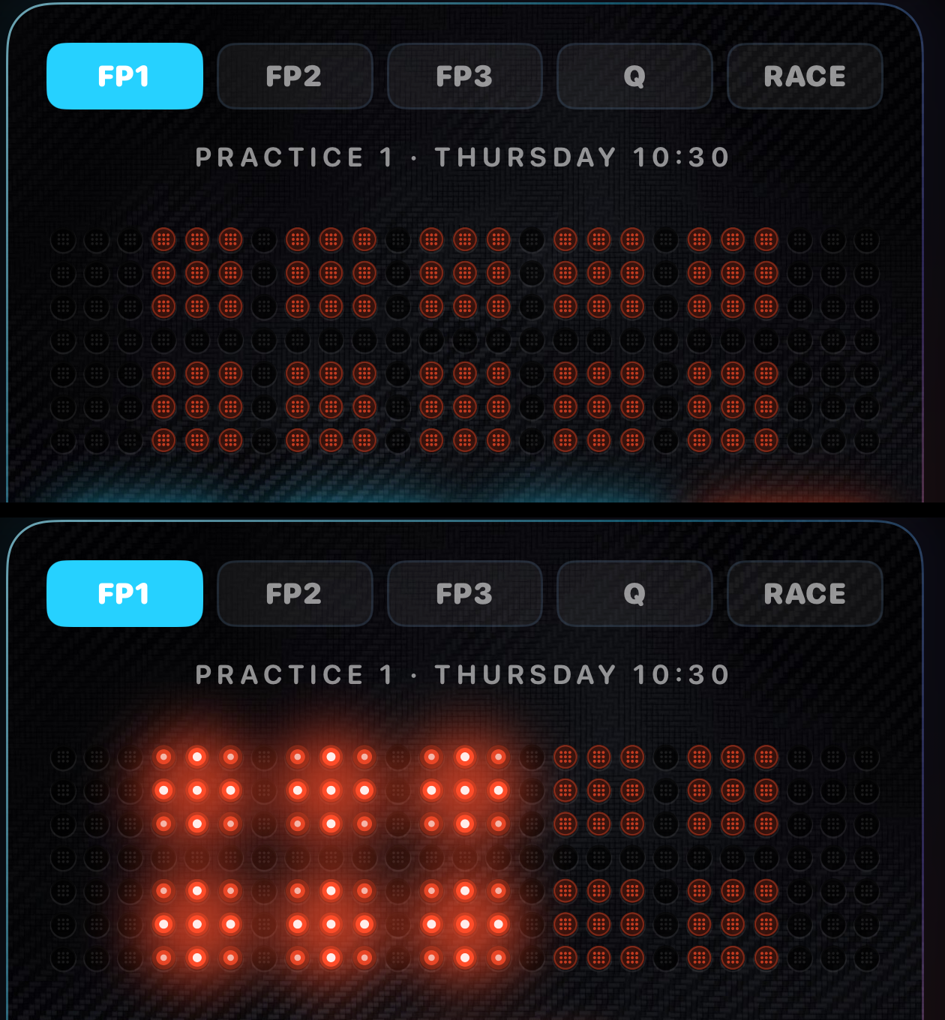
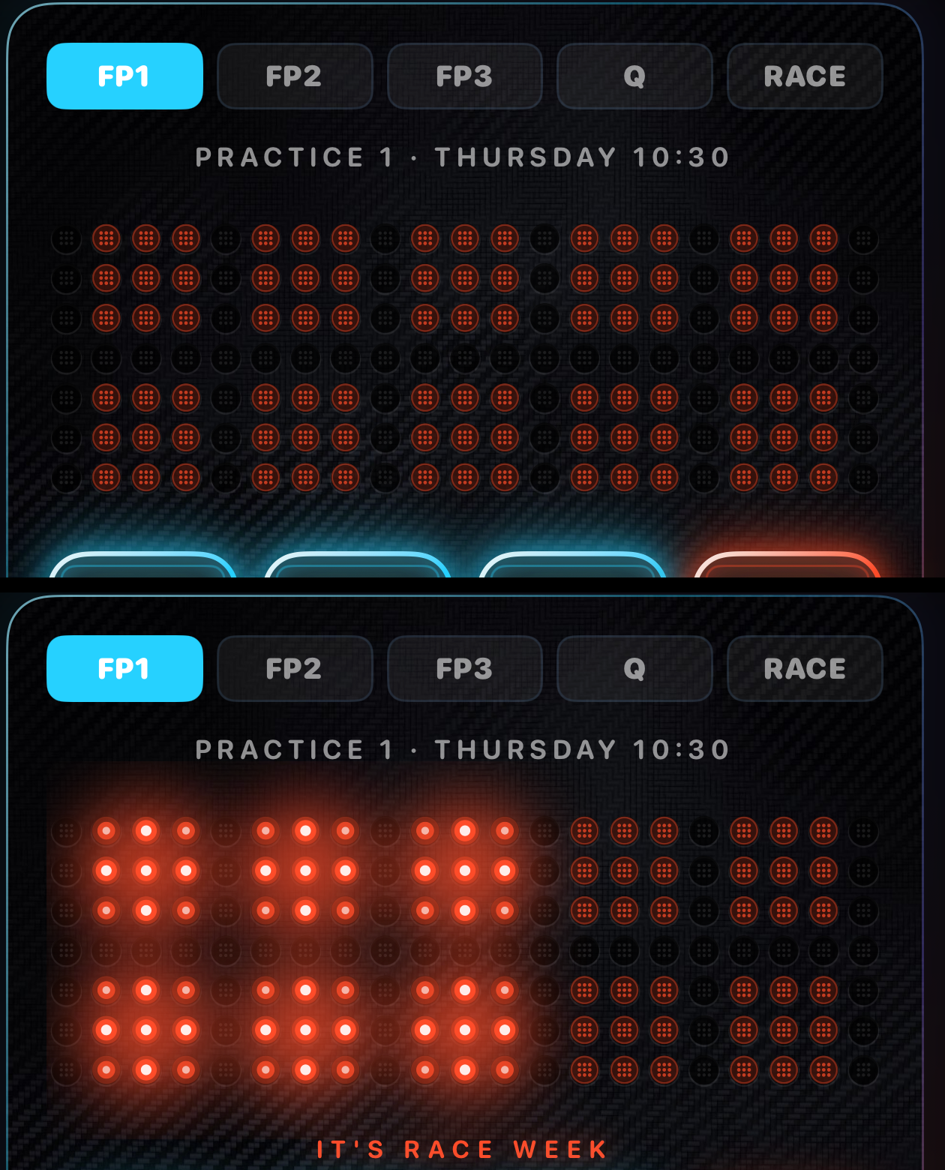
Gantry board: 21 columns, lamps fill the width

diff --git a/TeamRadio/Views/CockpitKit.swift b/TeamRadio/Views/CockpitKit.swift
@@ -100,7 +100,7 @@ struct DotMatrixBoard: View {
 
     var body: some View {
         Canvas { ctx, size in
-            let cols = 25
+            let cols = 21                   // five 3-wide lamps, single gaps, one spare column each side
             let rows = 7
             let pitch = size.width / CGFloat(cols)
             let top = (size.height - CGFloat(rows) * pitch) / 2
@@ -179,7 +179,7 @@ struct DotMatrixBoard: View {
         }
         // Taller than the grid so the lamp bloom isn't clipped; the negative
         // padding hands the spare room back to the layout.
-        .frame(height: 156)
-        .padding(.vertical, -18)
+        .frame(height: 168)
+        .padding(.vertical, -16)
     }
 }
